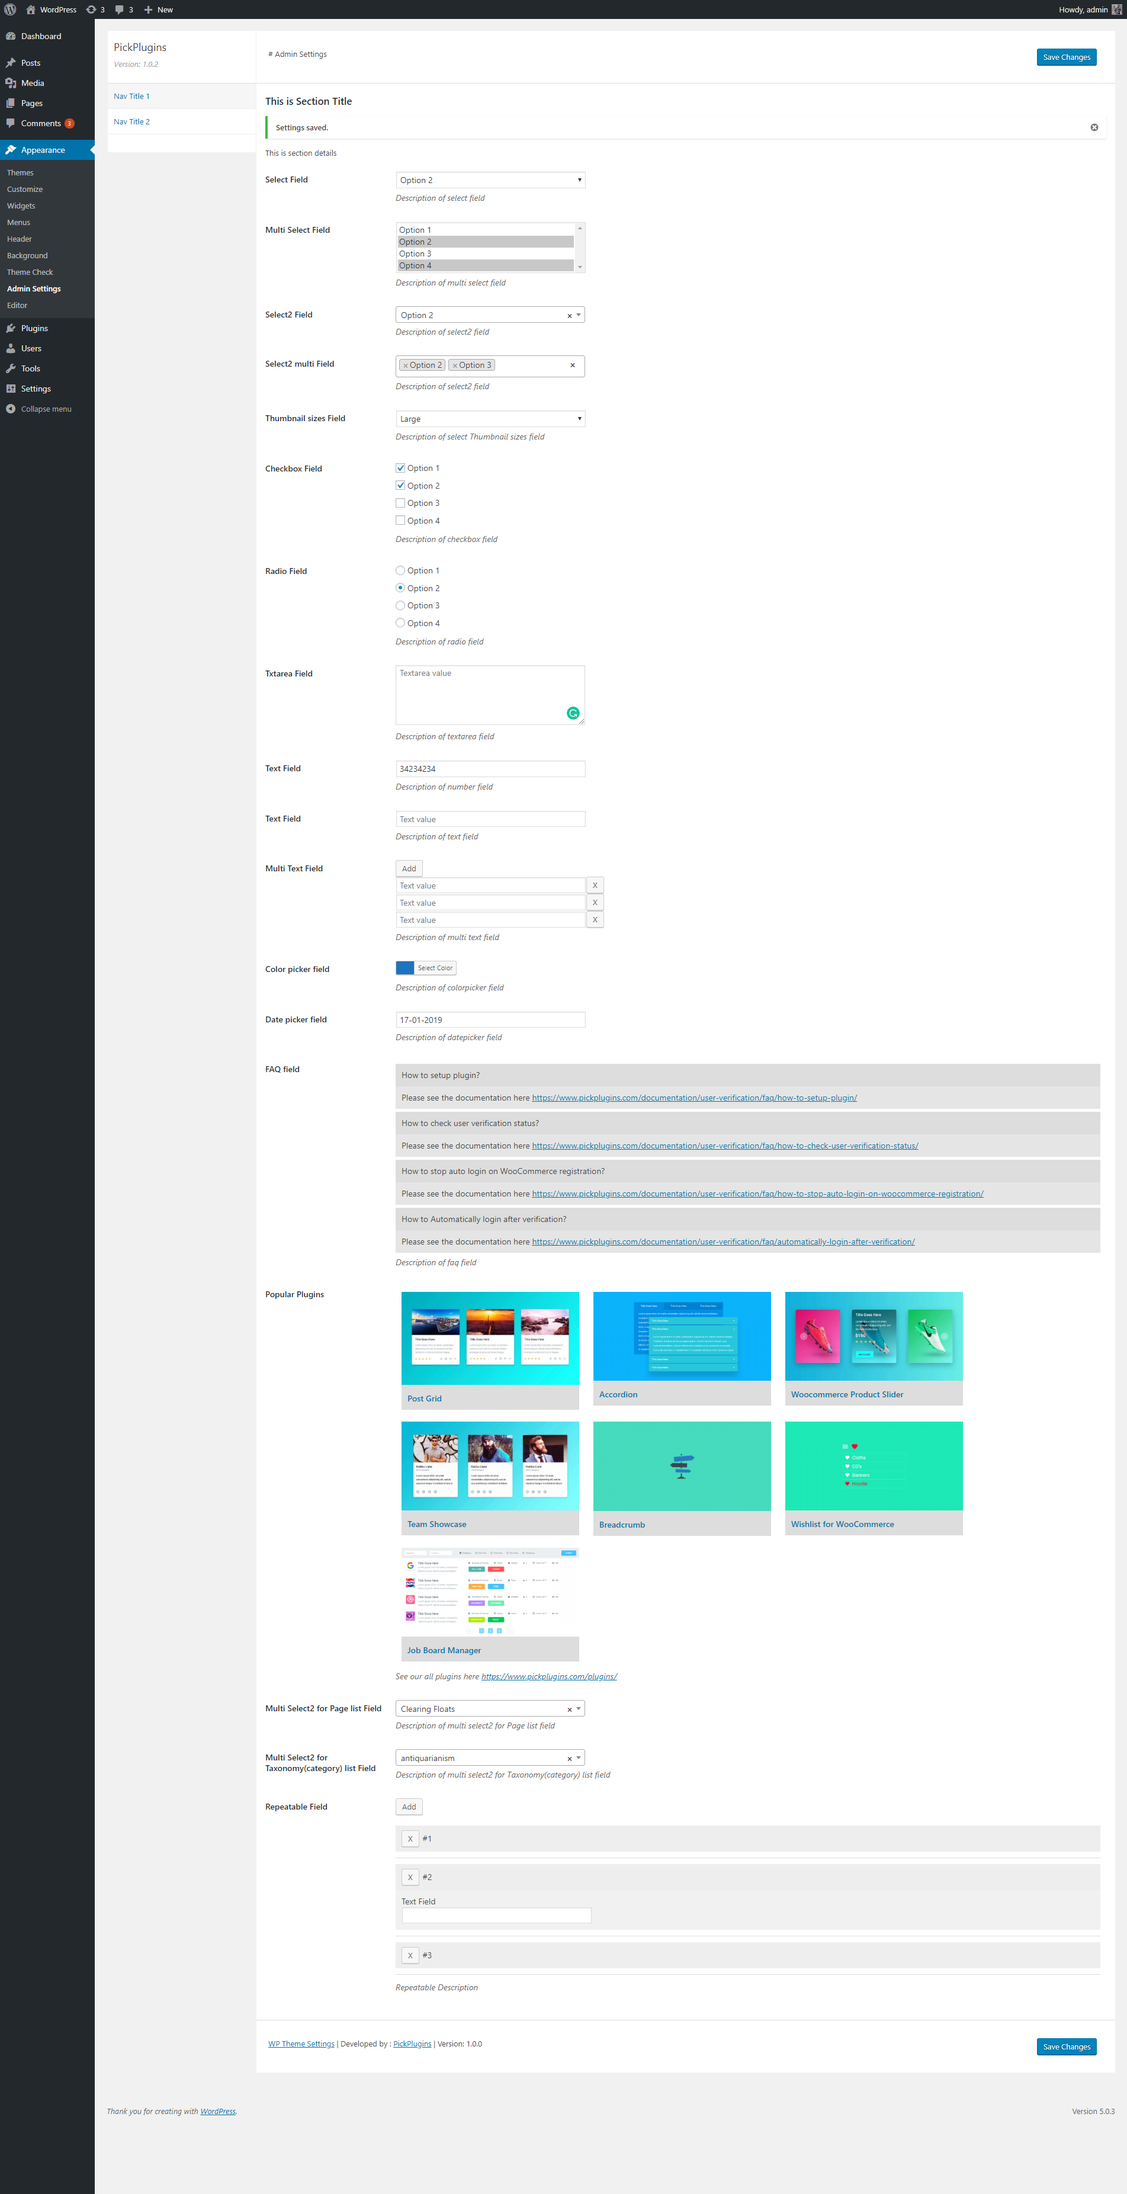
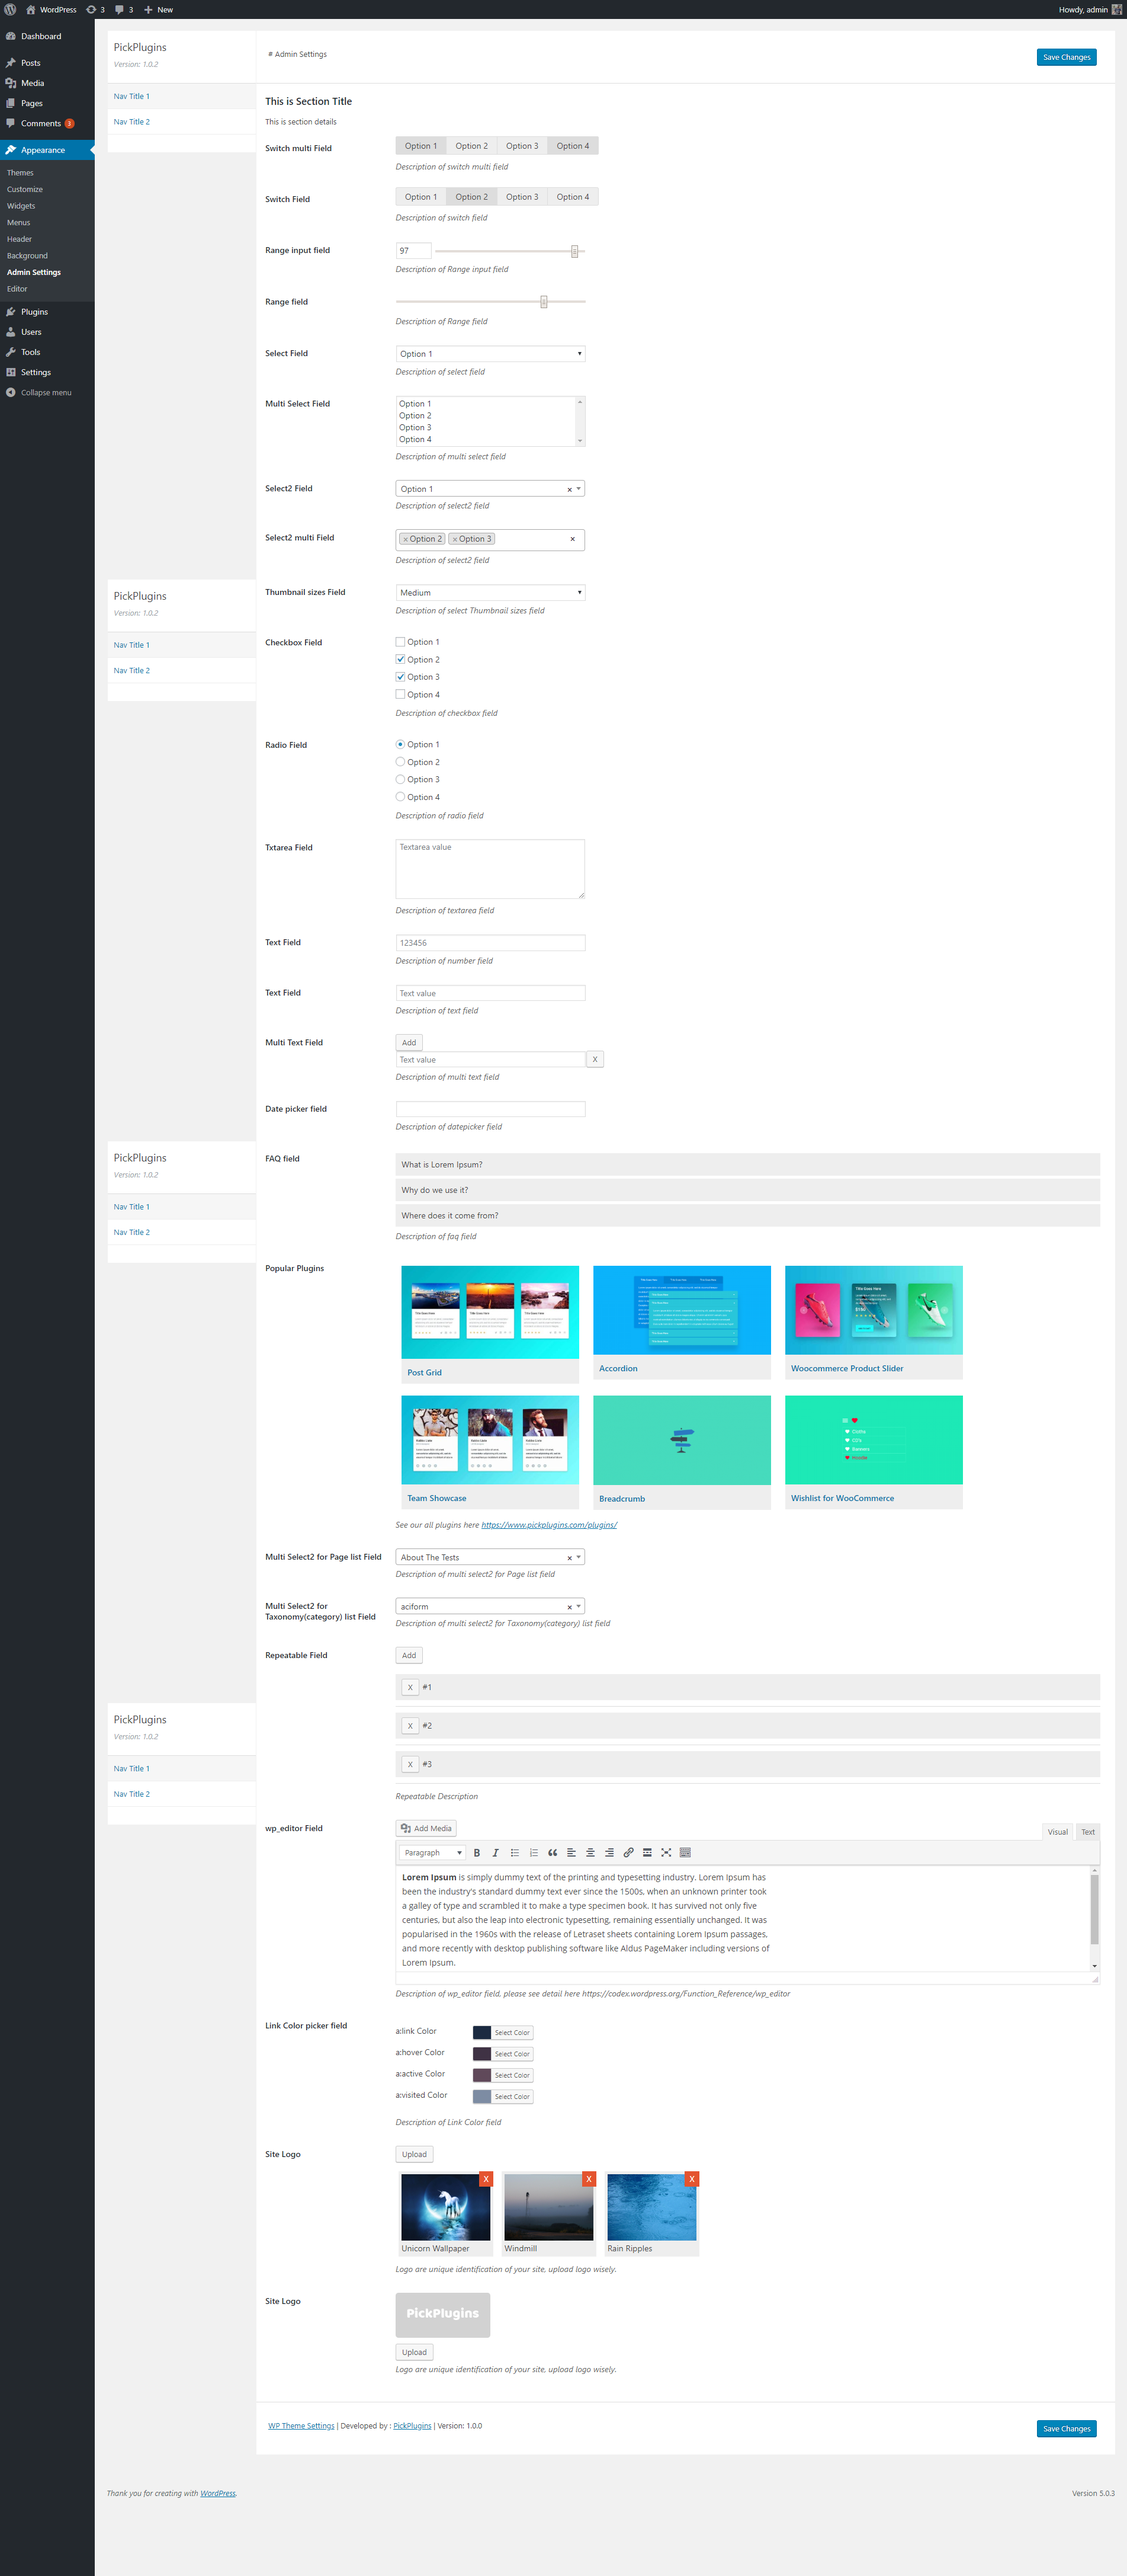
u

diff --git a/README.md b/README.md
@@ -27,6 +27,7 @@ An easy option and settings management framework for WordPress, Developer friend
 * Editor
 * Link Color
 * Switch
+* Switch Multi
 
 #### Special Fields
 
@@ -35,8 +36,6 @@ An easy option and settings management framework for WordPress, Developer friend
 * Thumbnail size list Field (select, select2, radio, checkbox)
 
 #### Upcoming
-
-* Button Set
 
 * Color Gradient
 * Dimensions
